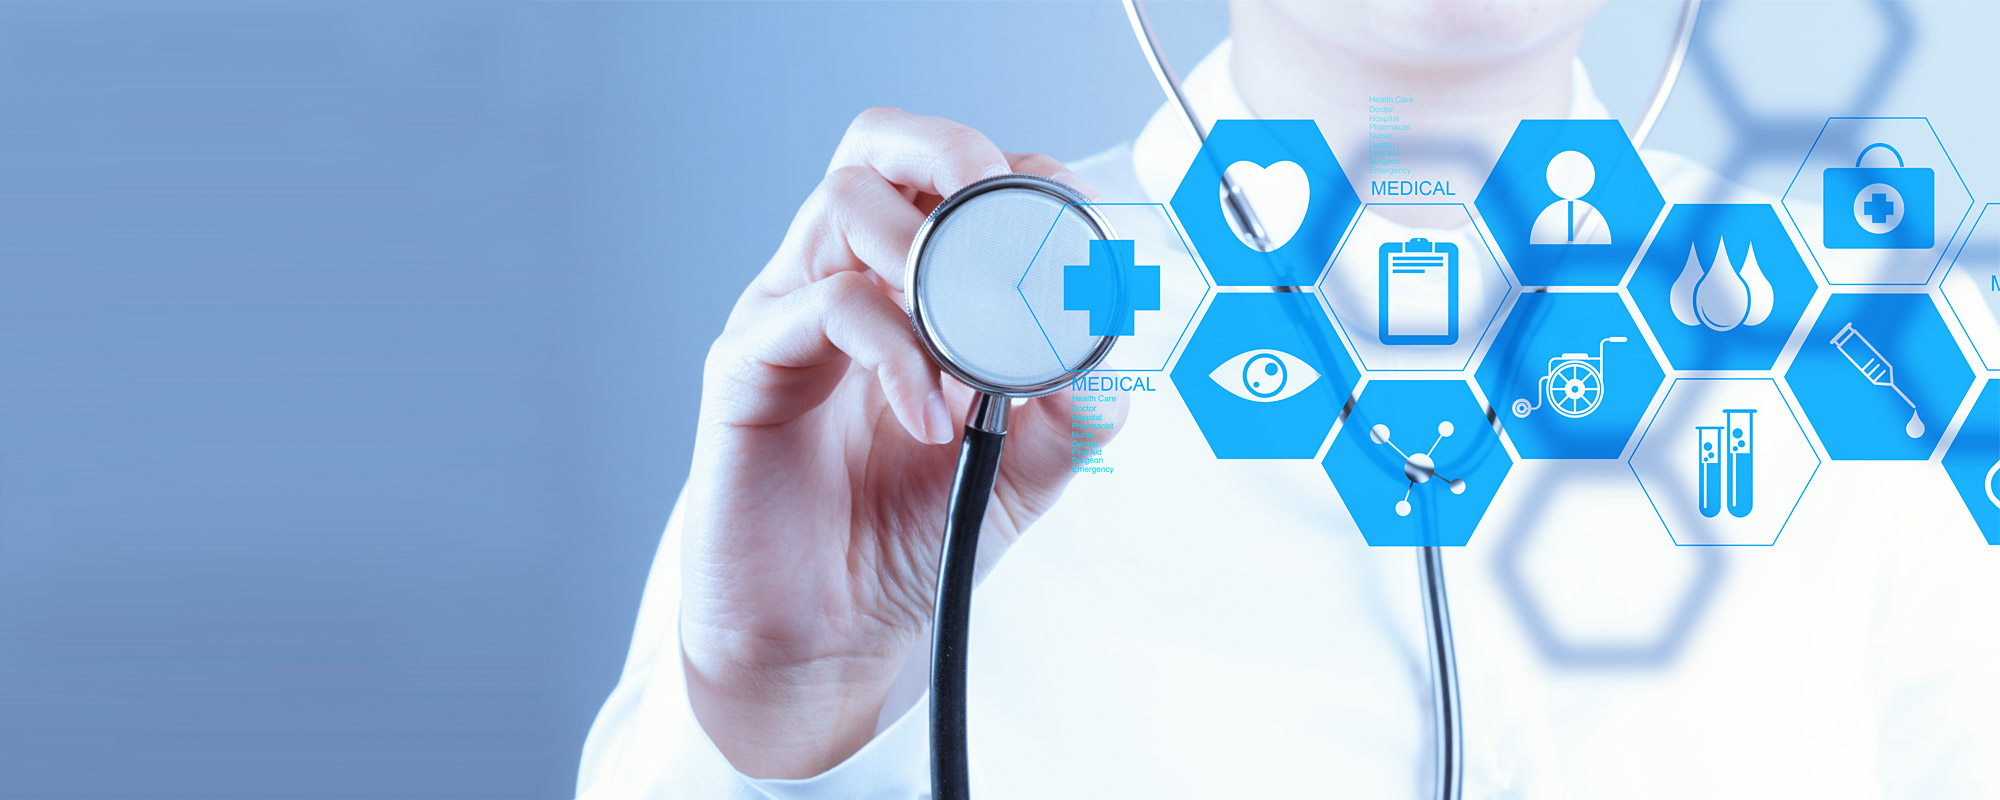
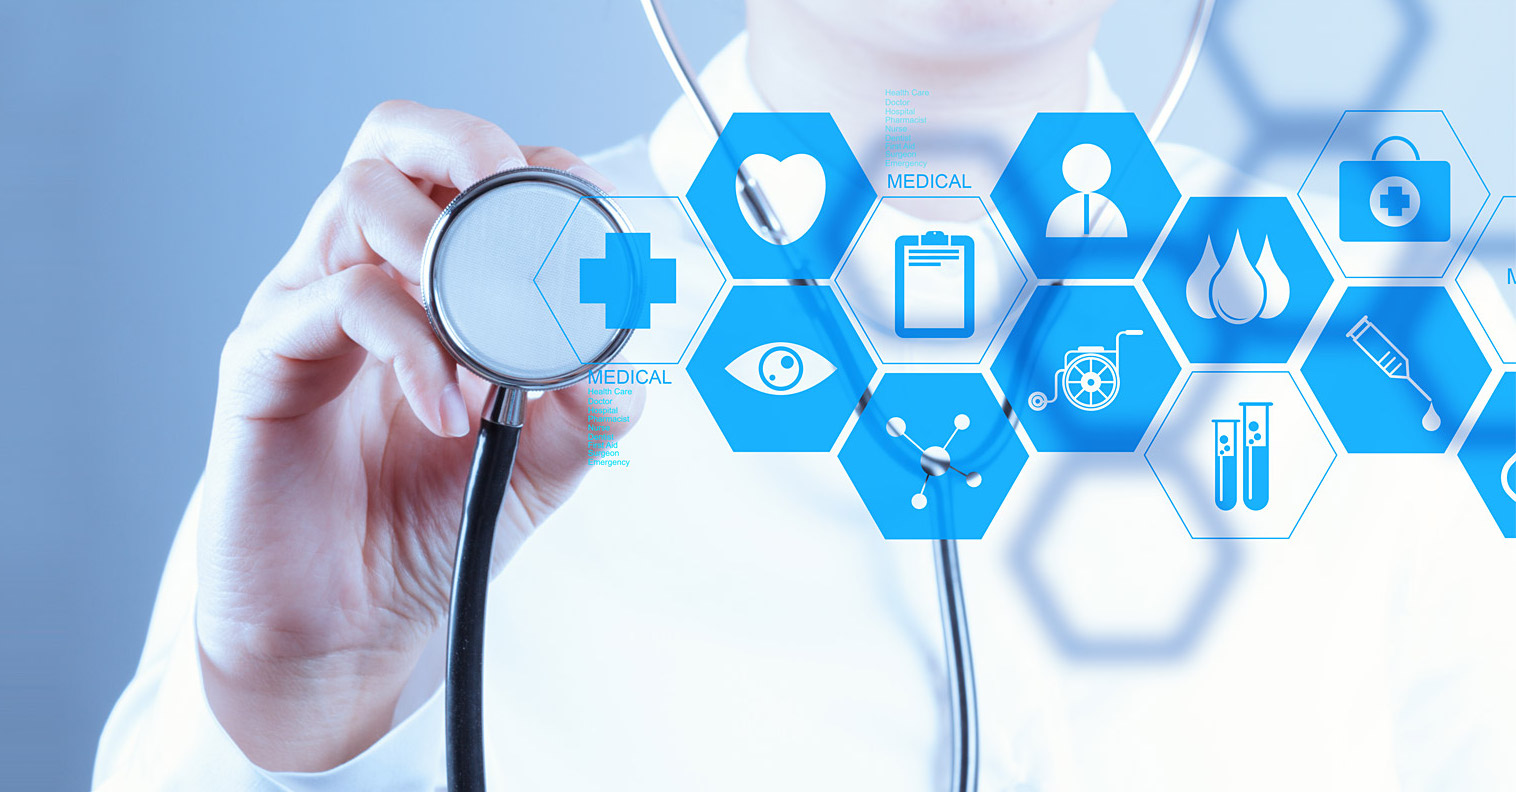
commit 43: landing page background and header change, smooth scroll addition

diff --git a/index.html b/index.html
@@ -34,7 +34,7 @@
                            <li><input id="firstAccordian"type="checkbox" ><i></i>
                                 <h3>Patient Information and Symptom Analysis</h3>
                                 <div class="artlist">
-                                    <div id="section_explanation"class="artlist_content"style="font-style:italic;font-size: 12pt;">
+                                    <div id="section_explanation"class="artlist_content"style="font-size: 12pt;">
                                          Please fill out the forms below:
                                     </div>
                                 </div>
@@ -70,8 +70,8 @@
                           <li><input id="secondAccordian" type="checkbox" checked=""><i></i>
                                <h3>Diagnosis Questions</h3>
                                <div class="artlist">
-                                   <div id="section_explanation"class="artlist_content"style="font-style:italic;font-size: 12pt;">
-                                        Please answer as many of the following questions in order to get a more accurate diagnosis.
+                                   <div id="section_explanation"class="artlist_content"style="font-size: 12pt;">
+                                        The more questions answered the more accurate the diagnosis will be
                                    </div>
                                </div>
 
@@ -115,7 +115,6 @@
                                    </div>
                                    <div class="artlist_content">
                                         <button id="submit" type="button" name="next">Submit Answer</button>
-                                        <!--<button id="next" type="button" name="next" class="hidden">Next Question</button>-->
                                    </div>
                               </div>
 
@@ -125,13 +124,13 @@
                           <li><input id="thirdAccordian"type="checkbox" checked=""><i></i>
                                <h3>Conditions</h3>
                                <div class="artlist">
-                                   <div id="section_explanation"class="artlist_content"style="font-style:italic;font-size: 12pt;">
+                                   <div id="section_explanation"class="artlist_content"style="font-size: 12pt;">
                                         <p> Based on the diagnosis question results you suffer from:</p>
                                    </div>
                               </div>
                               <div class="artlist">
                                    <div class="artlist_content" id="condition_list">
-
+                                        <button id="moreQuestions" type="button" name="next">Answer more questions</button>
                                    </div>
                               </div>
                           </li>

diff --git a/main.css b/main.css
@@ -25,7 +25,7 @@ h1 {
 .container {
     width: 80%;
     height: 100%;
-    margin: 50px auto 0;
+    margin: 50px auto 50px;
     background: white;
     padding: 10px 20px;
     text-align: center;
@@ -50,7 +50,7 @@ h1 {
     cursor: pointer;
 }
 
-#info_submit, #present, #absent, #start_questions, #next, #submit {
+#info_submit, #present, #absent, #start_questions, #next, #submit,#moreQuestions {
     text-align: center;
     font-size: 10pt;
     margin: 3px;
@@ -69,7 +69,7 @@ h1 {
 }
 
 #welcome {
-    margin-top: -400px;
+    margin-top: -540px;
     box-sizing: border-box;
     display: block;
 }
@@ -83,13 +83,13 @@ background: black;
     padding: 30px;
     position: relative;
     z-index: 2;
-    background: rgba(0, 0, 0, 0.35)
+    background: rgba(0, 0, 0, 0.45)
 }
 
 
 .intro_text {
     height: 1000px;
-    background-image:url(images/symptom_checker.jpg);
+    background-image:linear-gradient( rgba(255, 255, 255, 0.2), rgba(255, 255, 255, 0.2)),url(images/symptom_checker.jpg);
     background-size: 100% 100%;
     background-repeat: no-repeat;
     font-size: 30px;
@@ -434,12 +434,12 @@ input[type="radio"] {
         padding: 14px;
         position: relative;
         z-index: 2;
-        background: rgba(0, 0, 0, 0.25)
+        background: rgba(0, 0, 0, 0.4)
     }
 
 
     #welcome {
-    margin-top: -330px;
+    margin-top: -430px;
     box-sizing: border-box;
     display: block;
     margin-left: auto;
@@ -448,8 +448,8 @@ input[type="radio"] {
 
     .intro_text {
         height: 800px;
-        background-image:url(images/symptom_checker_small.jpg);
-        background-size: 100% 100%;
+        background-image:linear-gradient( rgba(255, 255, 255, 0.2), rgba(255, 255, 255, 0.2)),url(images/symptom_checker_small.jpg);
+        background-size: cover;
         background-repeat: no-repeat;
         font-size: 30px;
     }
@@ -496,12 +496,12 @@ input[type="radio"] {
         padding: 14px;
         position: relative;
         z-index: 2;
-        background: rgba(0, 0, 0, 0.25)
+        background: rgba(0, 0, 0, 0.4)
     }
 
 
     #welcome {
-    margin-top: -500px;
+    margin-top: -550px;
     box-sizing: border-box;
     display: block;
     margin-left: auto;
@@ -510,8 +510,8 @@ input[type="radio"] {
 
     .intro_text {
         height: 800px;
-        background-image:url(images/symptom_checker_small.jpg);
-        background-size: 100% 100%;
+        background-image:linear-gradient( rgba(255, 255, 255, 0.2), rgba(255, 255, 255, 0.2)),url(images/symptom_checker_small.jpg);
+        background-size: cover;
         background-repeat: no-repeat;
         font-size: 30px;
     }

diff --git a/app.js b/app.js
@@ -114,6 +114,13 @@ function listCondition(){
 
 }
 
+function showCondition(){
+     $('html, body').animate({
+          scrollTop: $("#condition_list").offset().top
+     }, 300);
+
+}
+
 
 //main event handlers
 $('#info_submit').on('click',function(event){
@@ -212,6 +219,9 @@ $('#start_questions').on('click',function () {
 
                                    getQuestion();
                          });
+
+                         //removes start question button
+                         $('#start_questions').addClass('hidden');
 });
 
 //submits an answer to symptom questions and updates diagnosisRequest for next question
@@ -238,8 +248,18 @@ $('#submit').on('click',function(){
 
                          //renders new conditions into DOM
                          listCondition();
+
+                         //scroll in to view conditions
+                         showCondition();
 });
 
+$('#moreQuestions').on('click',function(){
+                         //scroll in to view more questions
+                         $('html, body').animate({
+                              scrollTop: $("#question_container").offset().top
+                         }, 300);
+
+})
 
 //removes red highlight on forms that get submitted
 $('.required').keydown(function(){
